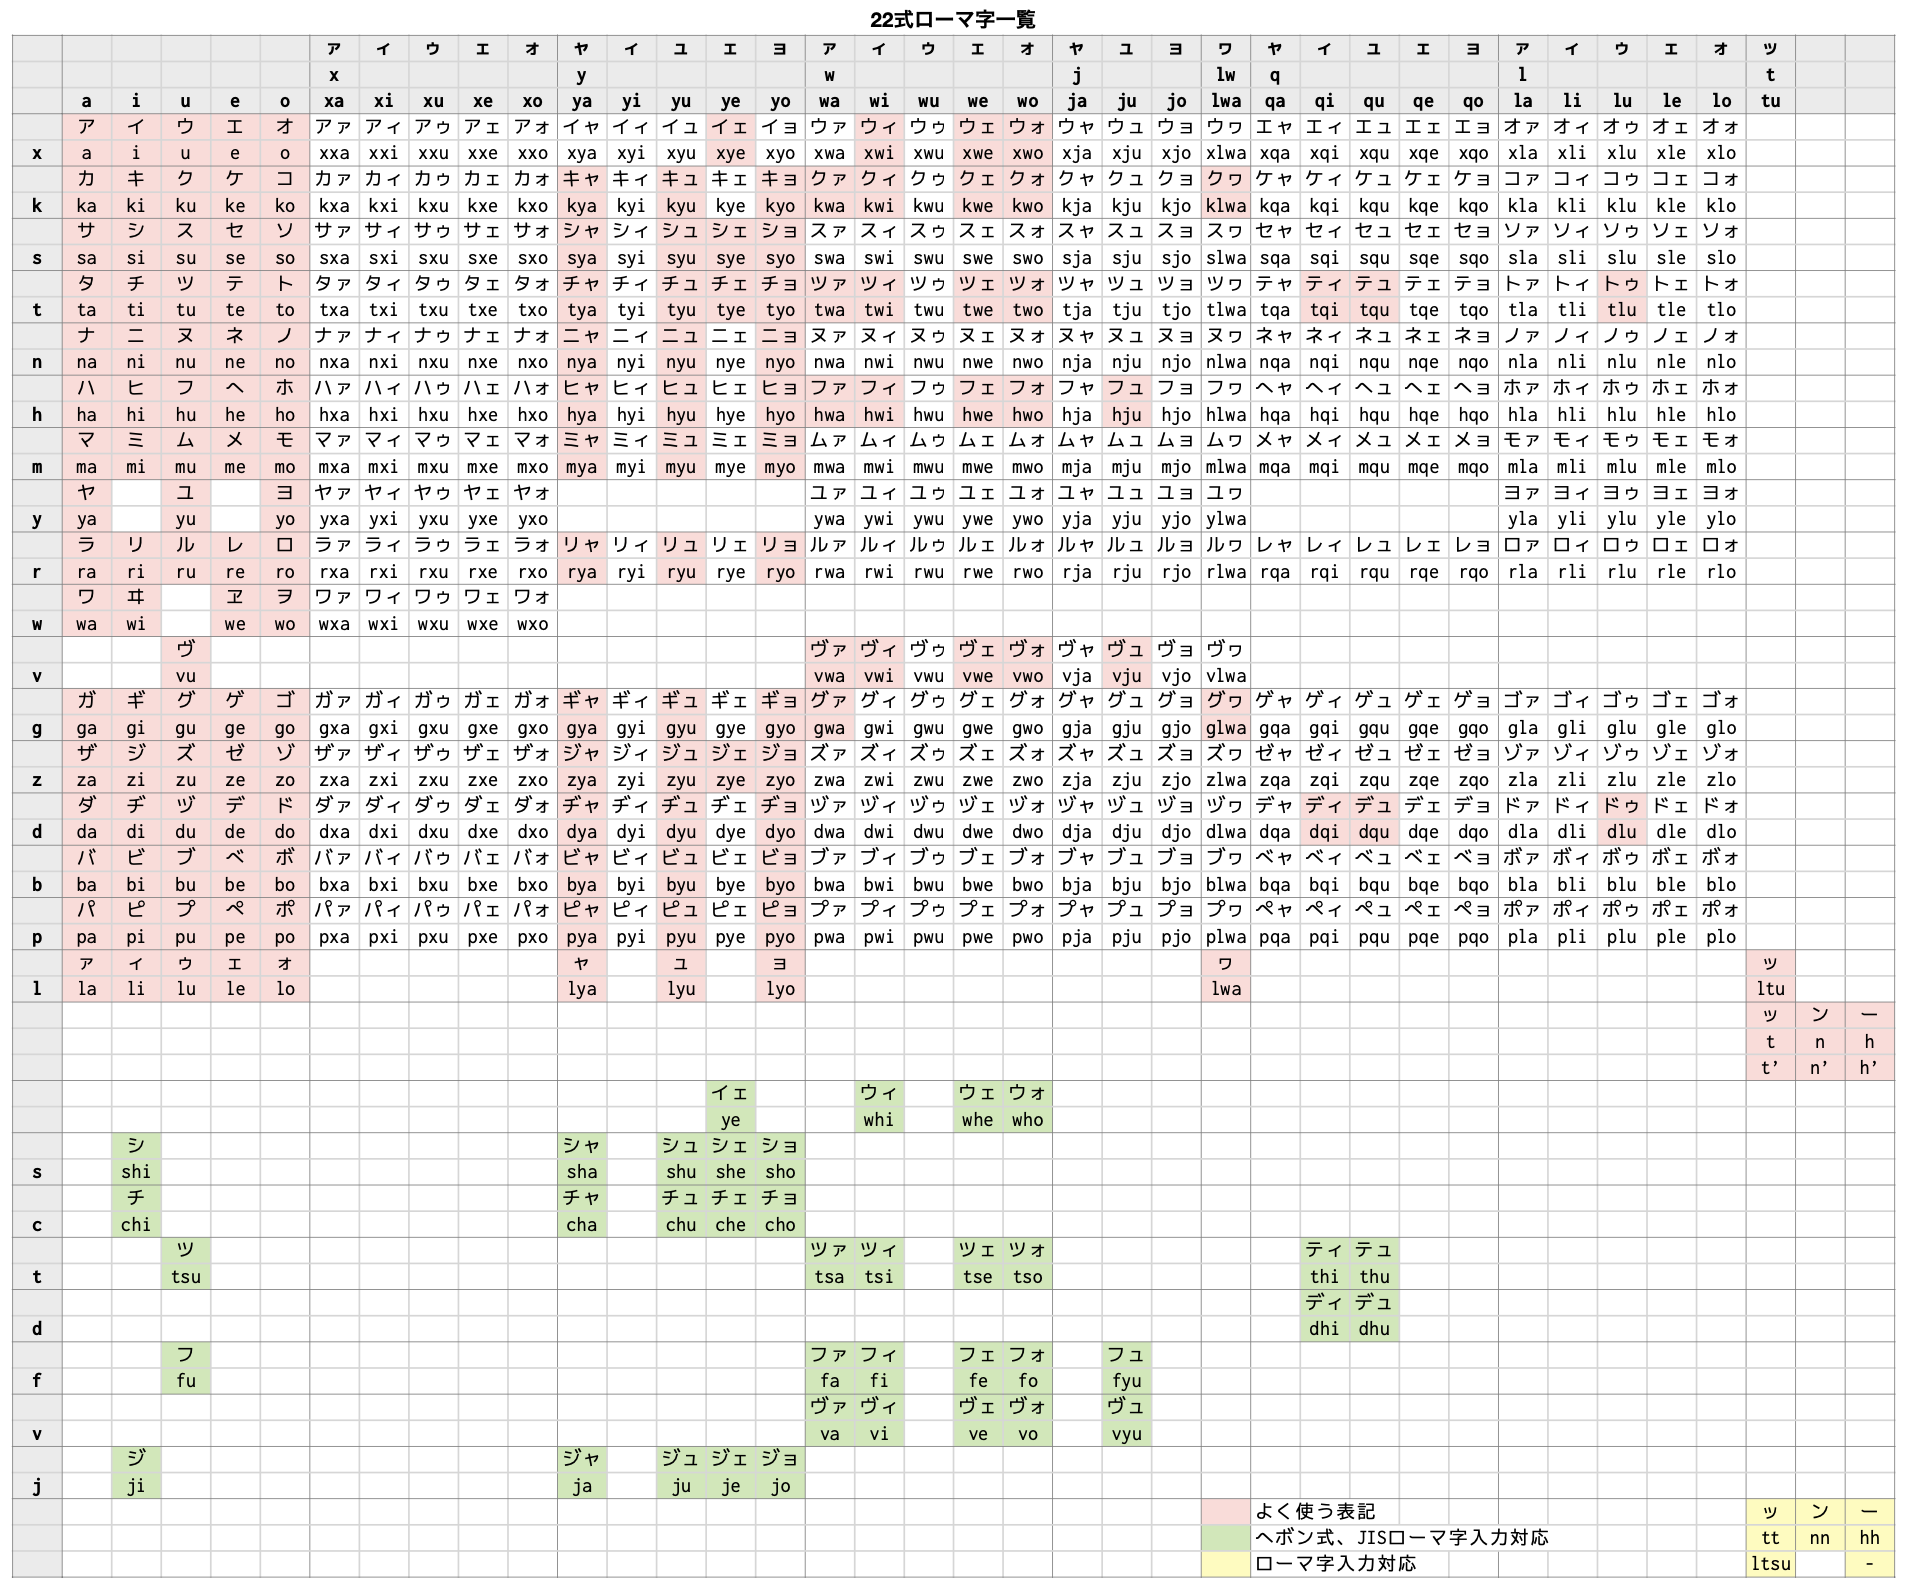
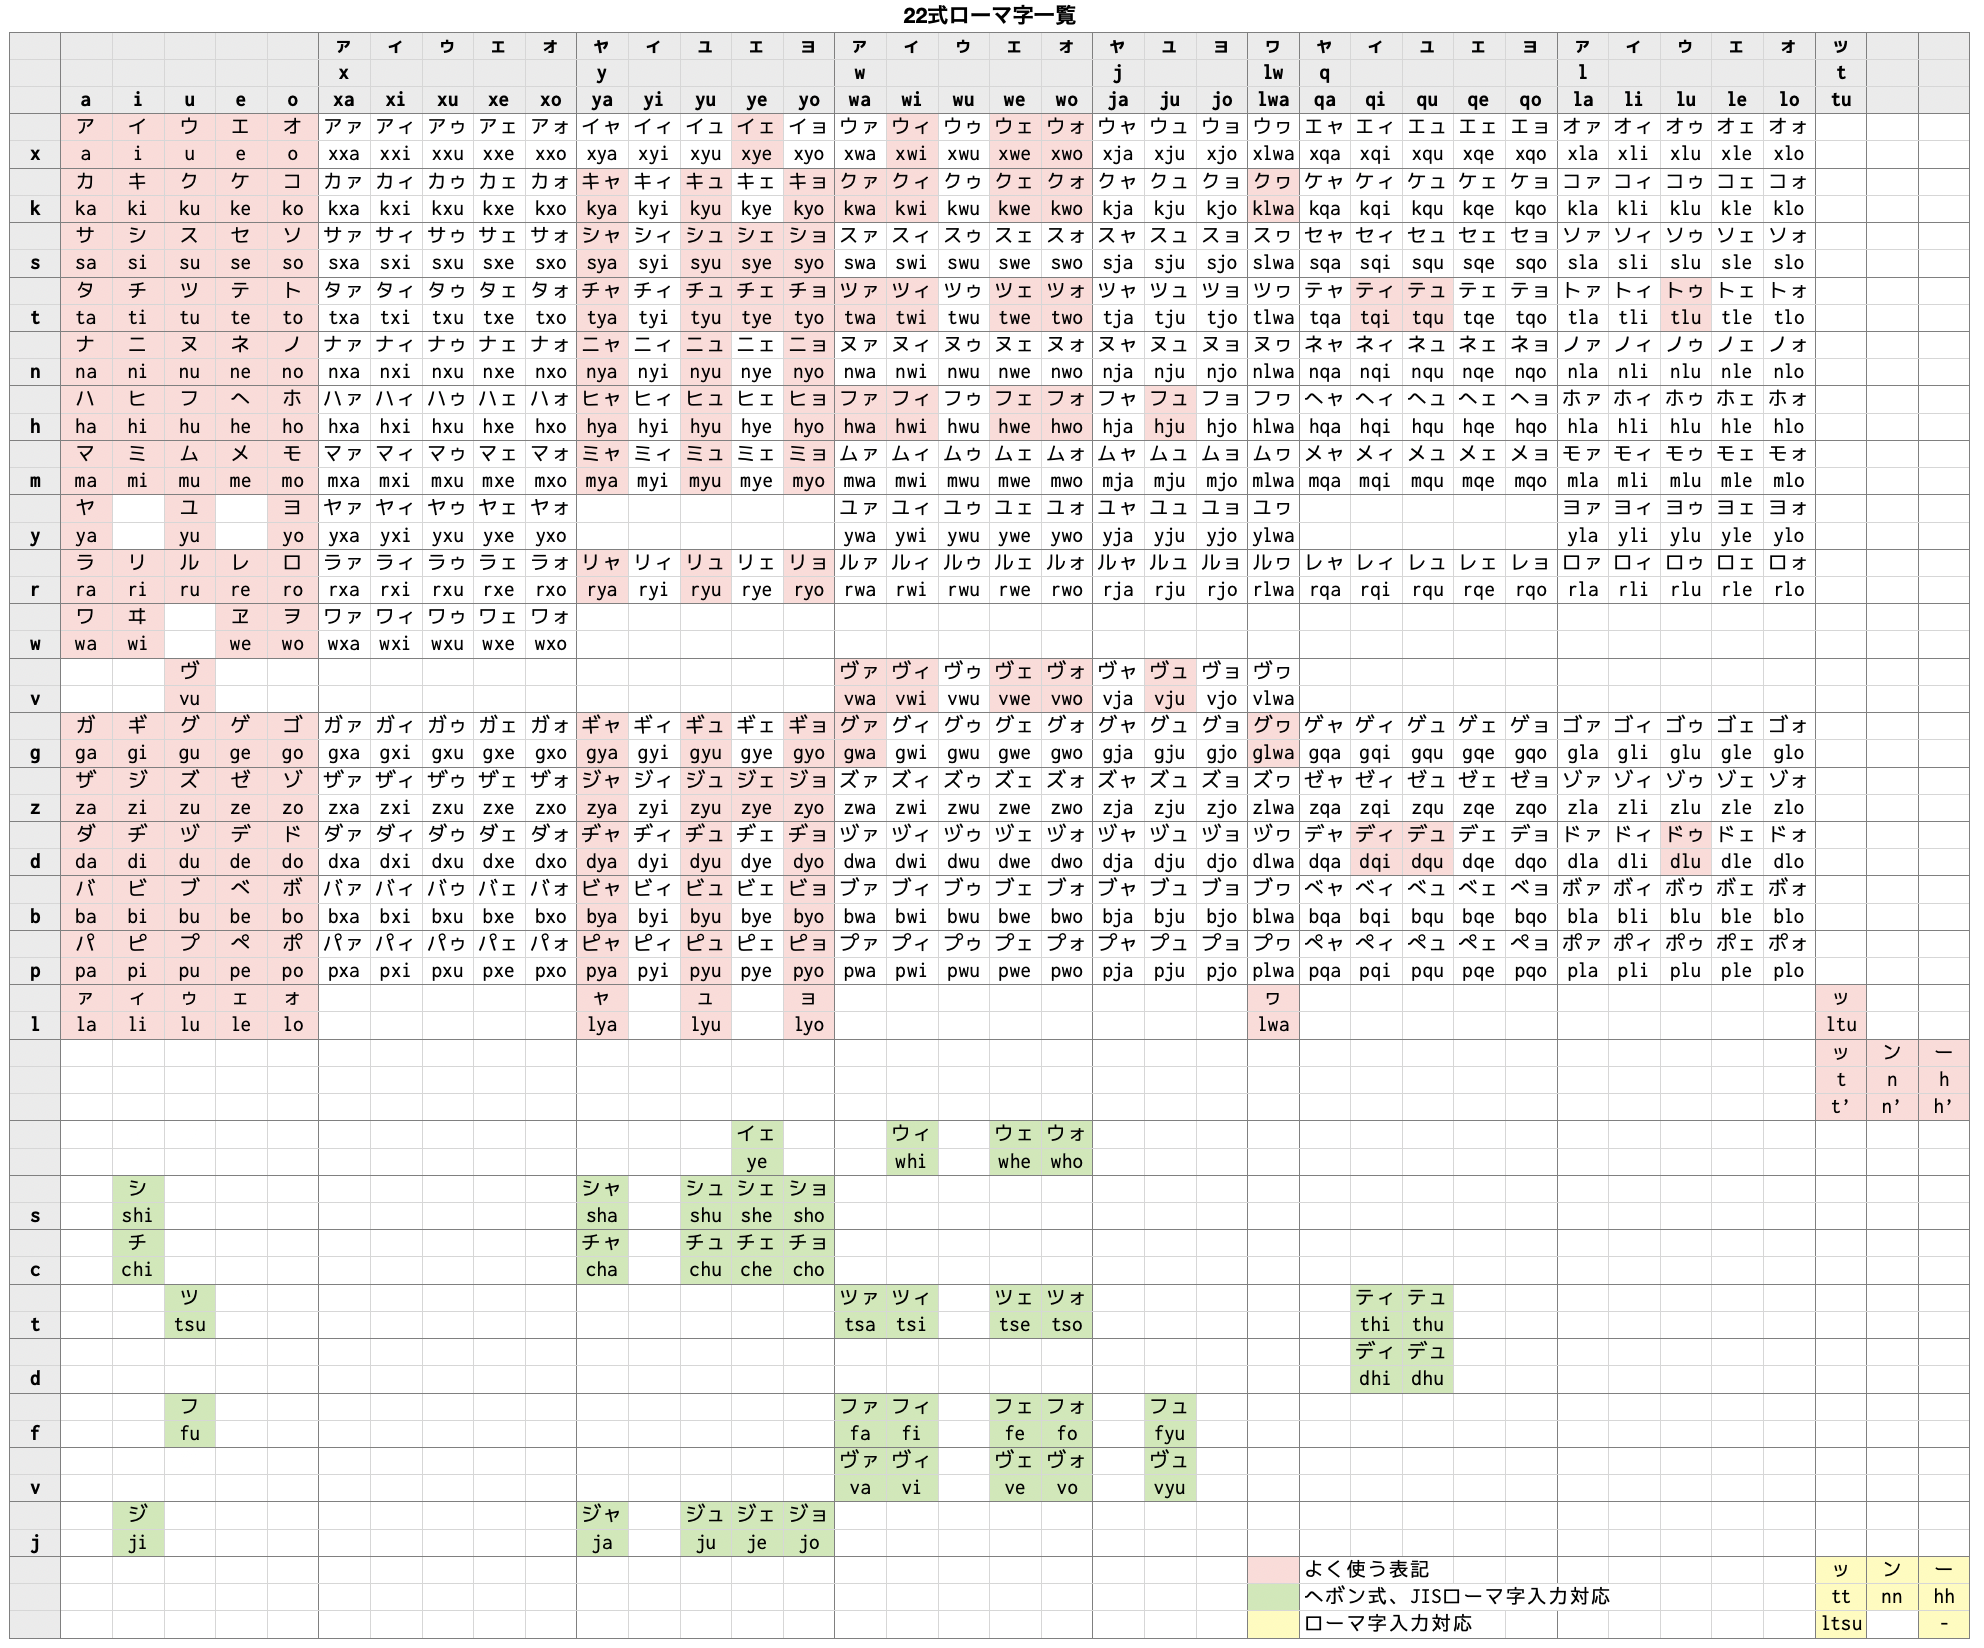
[Update] サンプルを最新版のフォントに変更

diff --git a/README.md b/README.md
@@ -13,7 +13,7 @@
 
 中指と薬指のホームポジションのキーを前置シフトとして使用します。
 
-<img alt="配列図" src="./images/hairetu.png" width="902">
+<img alt="配列図" src="./images/hairetu.png" width="786">
 
 ## データ的なもの
 
